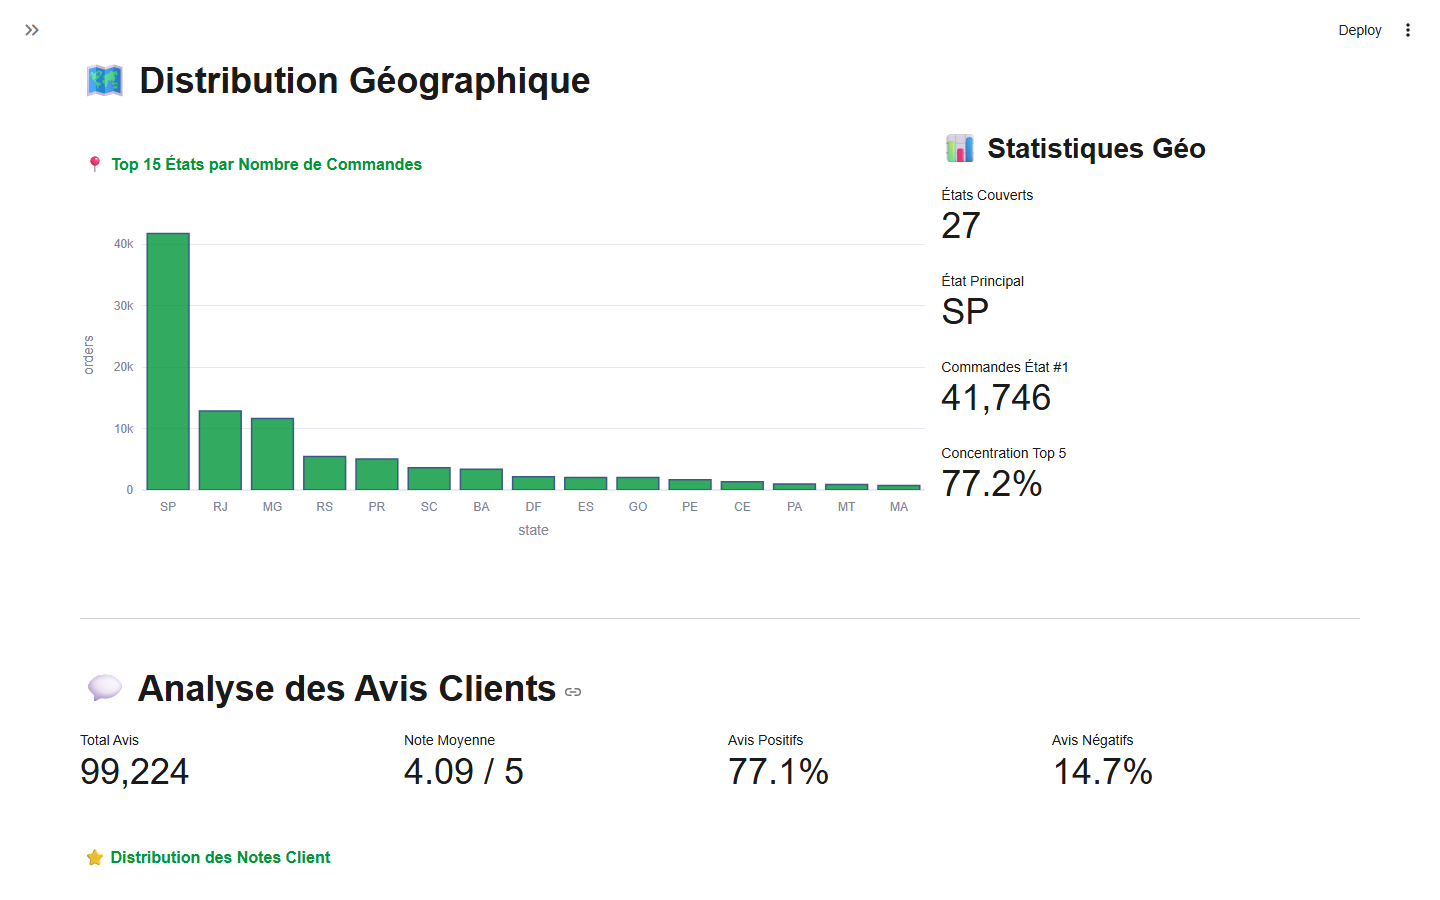
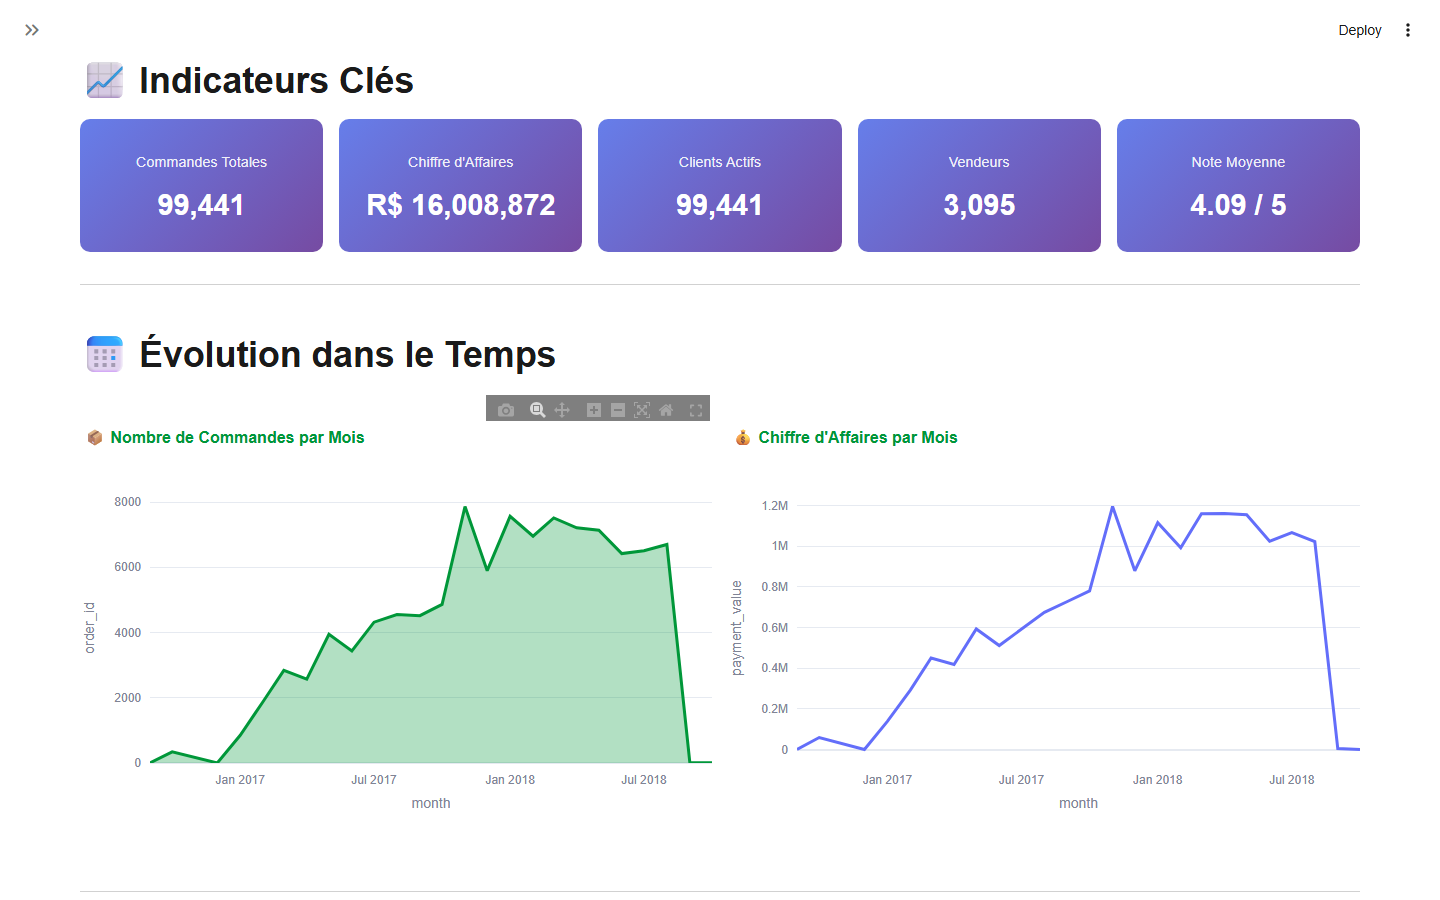
Update README context and dashboard screenshot

diff --git a/README.md b/README.md
@@ -4,7 +4,7 @@ Four machine learning models built on the public Olist dataset (Brazilian e-comm
 
 ![Admin dashboard](docs/images/admin_dashboard.png)
 
-*Admin dashboard: orders by state and review statistics computed from the Olist data.*
+*Admin dashboard: key figures and monthly orders and revenue computed from the Olist data.*
 
 ![Delivery time prediction](docs/images/delivery_prediction.png)
 
@@ -12,7 +12,7 @@ Four machine learning models built on the public Olist dataset (Brazilian e-comm
 
 ## Context
 
-- Academic project for the *Analytics Edge* course at EMINES (UM6P), January 2026, in a team of five students.
+- Academic group project for the *Analytics Edge* course at EMINES (UM6P), January 2026.
 - Data: [Brazilian E-Commerce Public Dataset by Olist](https://www.kaggle.com/datasets/olistbr/brazilian-ecommerce) on Kaggle (orders, items, customers, sellers, products, payments and reviews, 2016 to 2018).
 
 ## What we built
